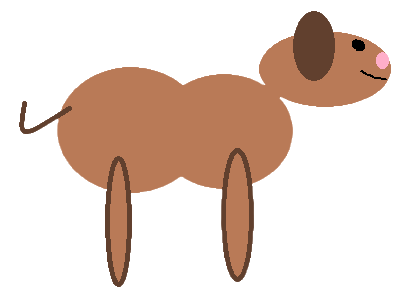
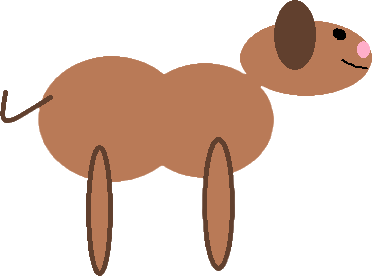
added new assets and styles to enable animation

diff --git a/Dog/web-dog/src/environment.js b/Dog/web-dog/src/environment.js
@@ -1,5 +1,5 @@
 import './style.css';
-import dog from './assets/artists-rendition.png'
+import { Dog } from './dog'
 import floor from './assets/floor.png';
 
 export function Room() {
@@ -8,13 +8,7 @@ export function Room() {
       <Dog />
       <Floor />
     </div>
-  )
-}
-
-function Dog() {
-  return (
-    <img src={dog} className="Dog" alt="A friendly dog" />
-  )
+  );
 }
 
 function Floor() {

diff --git a/Dog/web-dog/src/dog.js b/Dog/web-dog/src/dog.js
@@ -1,0 +1,19 @@
+import body from "./assets/body.png";
+import tail from "./assets/tail.png";
+
+export function Dog() {
+  return (
+    <div className="Dog">
+      <Body />
+      <Tail />
+    </div>
+  );
+}
+
+function Body() {
+  return <img className="Body" src={body} alt="the dog's fluffy body" />;
+}
+
+function Tail() {
+  return <img className="Tail" src={tail} alt="a waggly tail" />;
+}

diff --git a/Dog/web-dog/src/style.css b/Dog/web-dog/src/style.css
@@ -9,10 +9,23 @@
   justify-content: flex-end;
 }
 
-.Dog {
-  align-self: center;
-}
-
 .Floor {
  width: stretch;
+}
+
+.Dog {
+  display: grid;
+  max-width: 370px;
+  grid-template-columns: repeat(10, 1fr);
+  grid-template-rows: repeat(5, 1fr);
+}
+
+.Body {
+  grid-column: 2 / 10;
+  grid-row: 1 / 6;
+}
+
+.Tail {
+  grid-column: 1 / 2;
+  grid-row: 3 / 4;
 }
